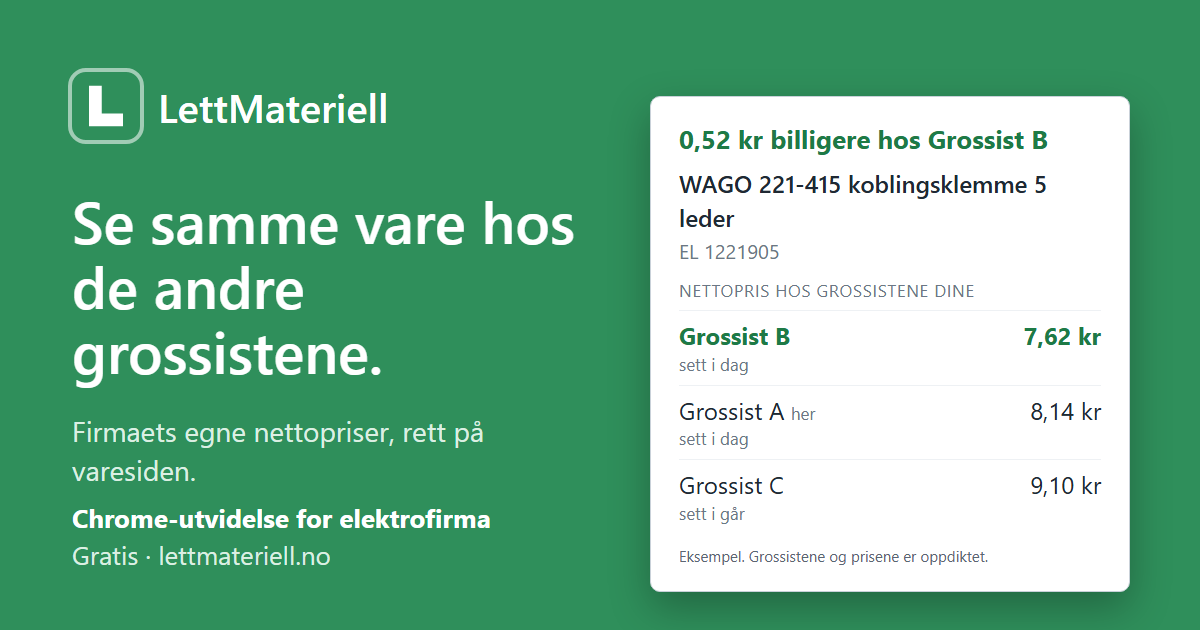
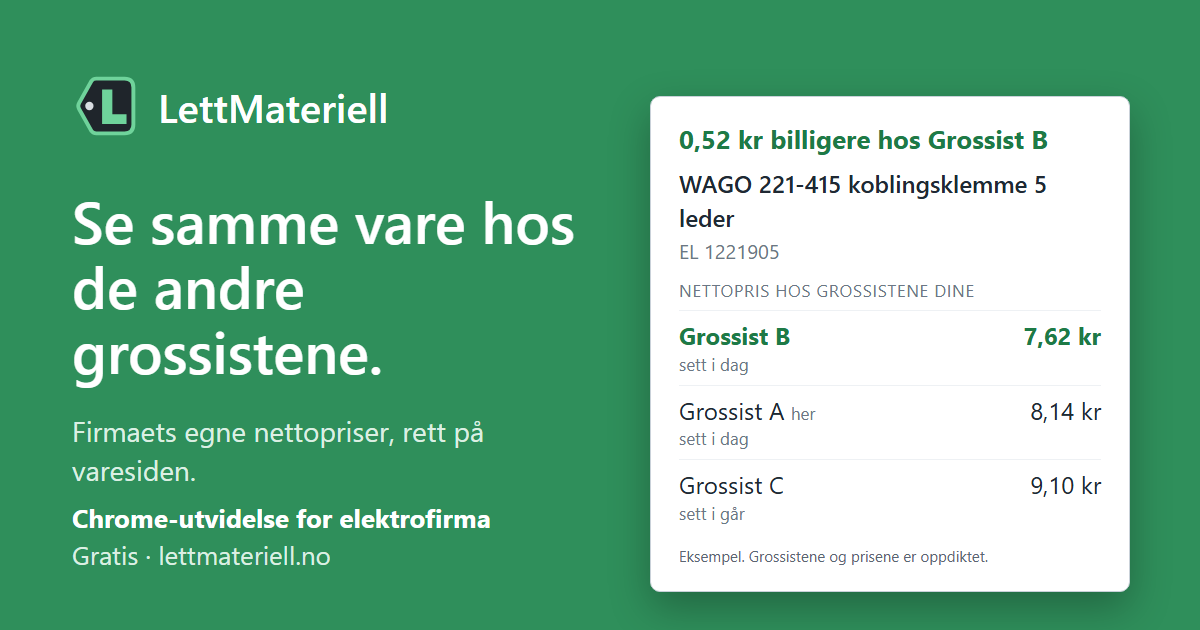
Publisert fra lettmateriell-kode b4a9bc78bd17fa9ad7939a7b5efedc9528297127

Changed region(s): [[0.0308, 0.0905, 0.1233, 0.2413]]

diff --git a/index.html b/index.html
@@ -43,6 +43,7 @@
             "name": "LettMateriell",
             "legalName": "LettMateriell Ramberg",
             "url": "https://lettmateriell.no/",
+            "logo": "https://lettmateriell.no/logo-512.png",
             "email": "magnus@lettmateriell.no",
             "description": "Chrome-utvidelse for elektro- og VVS-firma i Norge. Viser samme vare hos de andre grossistene, med firmaets egne priser, rett på varesiden.",
             "address": {
